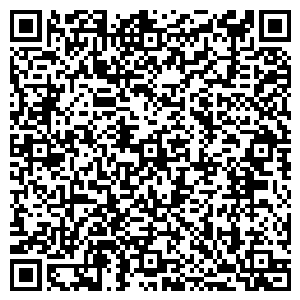
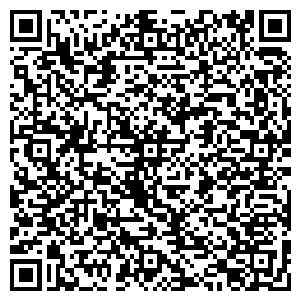
adição do webhook

diff --git a/server.js b/server.js
@@ -2,17 +2,81 @@ const { Client, LocalAuth } = require("whatsapp-web.js");
 const axios = require('axios');
 const QRCode = require('qrcode');
 const qrcode = require("qrcode-terminal");
-const fs = require('fs');
-const path = require('path');
-const FormData = require('form-data');
 
 const dataMenu = require('./util/dataMenu');
 
 const uri = `${process.env.API_URL}:${process.env.PORT}`;
+const socketServerUrl = uri; // Endereço do servidor WebSocket
+
+const { io } = require('socket.io-client'); // ✅ Importa o socket.io-client
 
 let client = null;
 let token;
 let userId;
+let qrImage;
+let conectado = false;
+let botState = false;
+
+// ✅ Conecta ao servidor WebSocket
+const socket = io(socketServerUrl, {
+    reconnection: true,
+    reconnectionAttempts: Infinity,
+    randomizationFactor: 0.5
+});
+
+// Escuta eventos do servidor WebSocket
+socket.on('connect', () => {
+    console.log('🔌 Conectado ao servidor WebSocket');
+});
+
+socket.on('disconnect', (reason) => {
+    console.log('🔌 Desconectado do servidor:', reason);
+});
+
+// ✅ Exemplo: quando o servidor emitir "atualizacao", execute algo
+socket.on('atualizacao', async (data) => {
+    //console.log('📥 Atualização WebSocket:');
+    /*
+    if (data.type === 'login') {
+        console.log('🔐 Login solicitado via WebSocket');
+        console.log('🔐 :', data.token);
+        token = data.token;
+        //await loginNoSistema(data.credentials || {});
+    }
+    */
+    if (data.type === 'getStates') {
+        console.log('💬 Comando getStates:');
+        socket.emit('atualizacao', {
+            type: 'conected',
+            conectado: conectado,
+            
+            botState: botState
+        });
+    }
+    if (data.type === 'botState') {
+        console.log('🤖 Comando WebSocket:');
+        botState = data.botState;
+        token = data.token;
+        userId = data.userId;
+
+        if (botState) {
+            console.log('Bot: ✔');
+        } else {
+            console.log('Bot: ❌ ');
+        }
+    }
+
+    if (data.type === 'logout') {
+        console.log('🚪 Logout solicitado via WebSocket');
+        if (client) {
+            await client.logout();
+            await client.destroy();
+        }
+    }
+
+});
+
+
 // Função para reiniciar o cliente
 async function startClient() {
     if (client) {
@@ -27,7 +91,6 @@ async function startClient() {
             console.warn('Cliente já foi destruído:', err.message);
         }
     }
-
     // Criar novo cliente
     client = new Client({
         puppeteer: {
@@ -40,29 +103,27 @@ async function startClient() {
     });
 
     // Eventos
-    await client.on("qr", async (qr) => {
+    client.on("qr", async (qr) => {
         try {
-            // Gera o QR Code como Buffer (binário)
-            const qrImage = await QRCode.toBuffer(qr, {
+            qrImage = await QRCode.toBuffer(qr, {
                 type: 'png',
                 width: 300,
                 margin: 2,
-                color: { dark: '#000000FF' }, // Cor preta
-                background: { light: '#FFFFFFFF' } // Fundo branco
+                color: { dark: '#000000FF' },
+                background: { light: '#FFFFFFFF' }
             });
 
-            // Caminho completo com nome do arquivo
-            const filePath = path.join('./', 'whatsapp-qr.png');
-
-            // Salva o arquivo no sistema
-            fs.writeFileSync(filePath, qrImage);
-            console.log(`QR Code salvo em: ${filePath}`);
-
-            // Envia via API (se quiser)
-            await sendQrCode(qr);
-
+            socket.emit('atualizacao', {
+                type: 'conected',
+                conectado: false,
+                imageData: qrImage.toString('base64'),
+                botState: botState
+            });
+            conectado = false;
             // Mostra no terminal
-            qrcode.generate(qr, { small: true });
+            //qrcode.generate(qr, { small: true });
+
+            console.log('✅ QrCode via WebSocket:');
 
         } catch (error) {
             console.error("Erro ao gerar ou salvar QR Code:", error.message);
@@ -71,27 +132,51 @@ async function startClient() {
 
     client.on("authenticated", () => {
         console.log("AUTHENTICATED");
+
     });
 
     client.on("auth_failure", (msg) => {
         console.error("AUTHENTICATION FAILURE", msg);
+        socket.emit('atualizacao', {
+            type: 'conected',
+            conectado: false,
+            imageData: qrImage.toString('base64'),
+            botState: botState
+        });
+        conectado = false;
         restartClient();
     });
 
     client.on("ready", async () => {
-        console.log("CLIENTE PRONTO");
+        console.log("CLIENTE CONECTADO");
         console.log("USER:", client.info.wid.user);
+        socket.emit('atualizacao', {
+            type: 'conected',
+            conectado: true,
+            botState: botState
+        });
+        conectado = true;
     });
 
     client.on("disconnected", (reason) => {
         console.log("CLIENTE DESCONECTADO:", reason);
+        socket.emit('atualizacao', {
+            type: 'conected',
+            conectado: false,
+            imageData: qrImage.toString('base64'),
+            botState: botState
+        });
+        conectado = false;
         restartClient();
     });
 
     client.on("message", async (msg) => {
         msg.userId = userId;
         msg.token = token;
-        client.sendMessage(msg.from, await dataMenu(msg));
+        //console.log("token:",token);
+        if (botState) {
+            client.sendMessage(msg.from, await dataMenu(msg));
+        }
     });
 
     await client.initialize();
@@ -116,47 +201,7 @@ process.on('SIGINT', () => {
     process.exit(0);
 });
 
-// Função para enviar QR Code para API
-async function sendQrCode(qrCode) {
-    const email = 'alex@example.com';
-    const password = 'password321';
-    try {
-        const resLogin = await axios.post(`${uri}/api/sessions/login`, {
-            email,
-            password
-        });
 
-        token = resLogin.data.token;
-        userId = resLogin.data.userId;
-
-        const qrBuffer = await QRCode.toBuffer(qrCode, {
-            type: 'png',
-            width: 300,
-            margin: 2,
-            color: { dark: '#000000FF' },
-            background: { light: '#FFFFFFFF' }
-        });
-
-        const formData = new FormData();
-        formData.append('userId', userId);
-        formData.append('file', qrBuffer, {
-            filename: 'whatsapp-qr.png',
-            contentType: 'image/png'
-        });
-
-        await axios.post(`${uri}/api/subscriptions/qr`, formData, {
-            headers: {
-                ...formData.getHeaders(),
-                Authorization: `Bearer ${token}`
-            }
-        });
-
-        console.log('QR Code enviado para API');
-
-    } catch (error) {
-        console.error('Erro ao enviar QR Code:', error.message);
-    }
-}
 
 // Inicializa o cliente pela primeira vez
 startClient();

diff --git a/util/dataMenu.js b/util/dataMenu.js
@@ -155,6 +155,7 @@ const menuSteps = [
         msgOption: async function (msg) {
             // Criação de dados
             await getData(msg);
+            console.log("getdata")
             try {
 
                 const newUser = await axios.post(`${uri}/api/client/`, {
